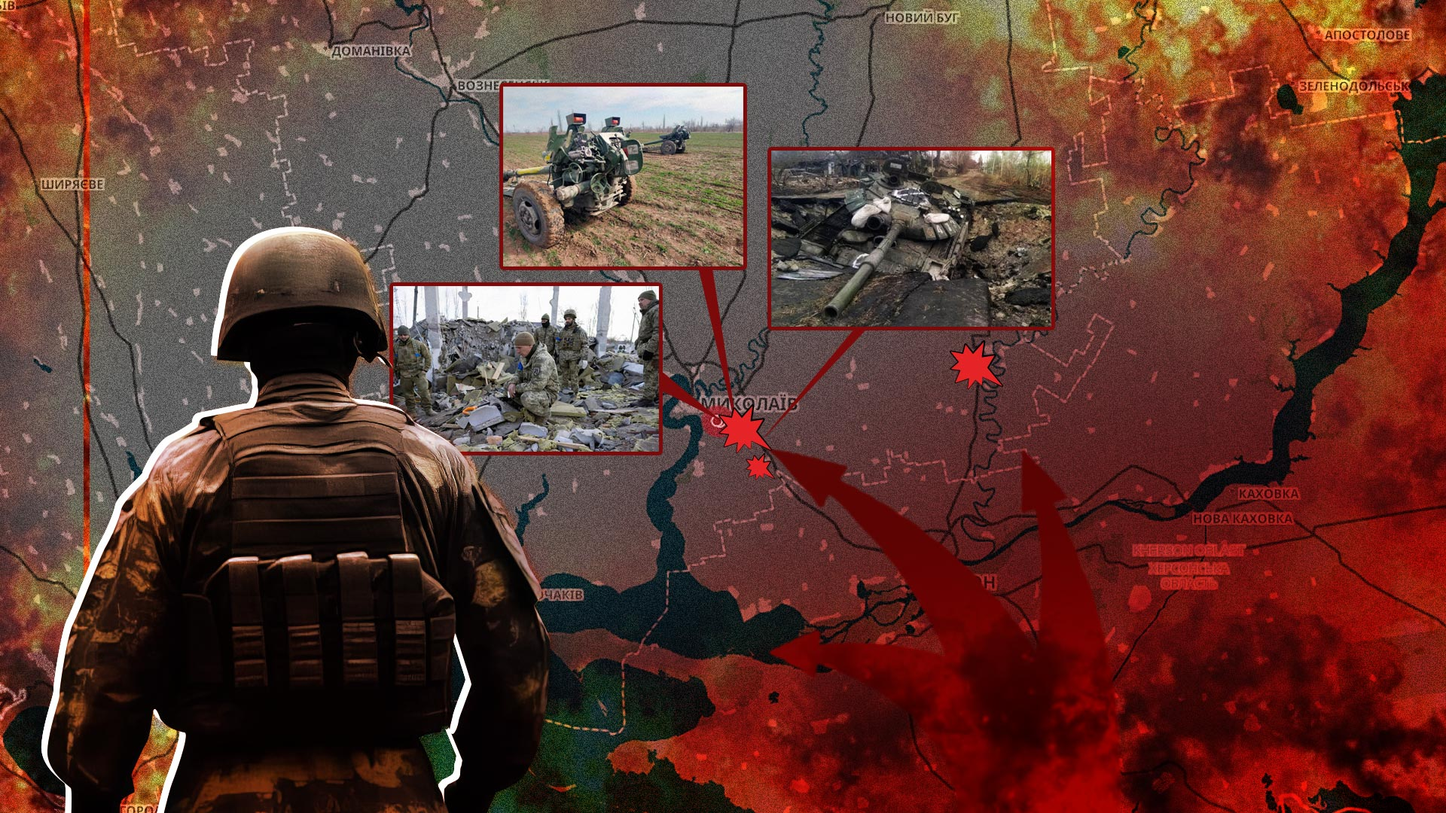
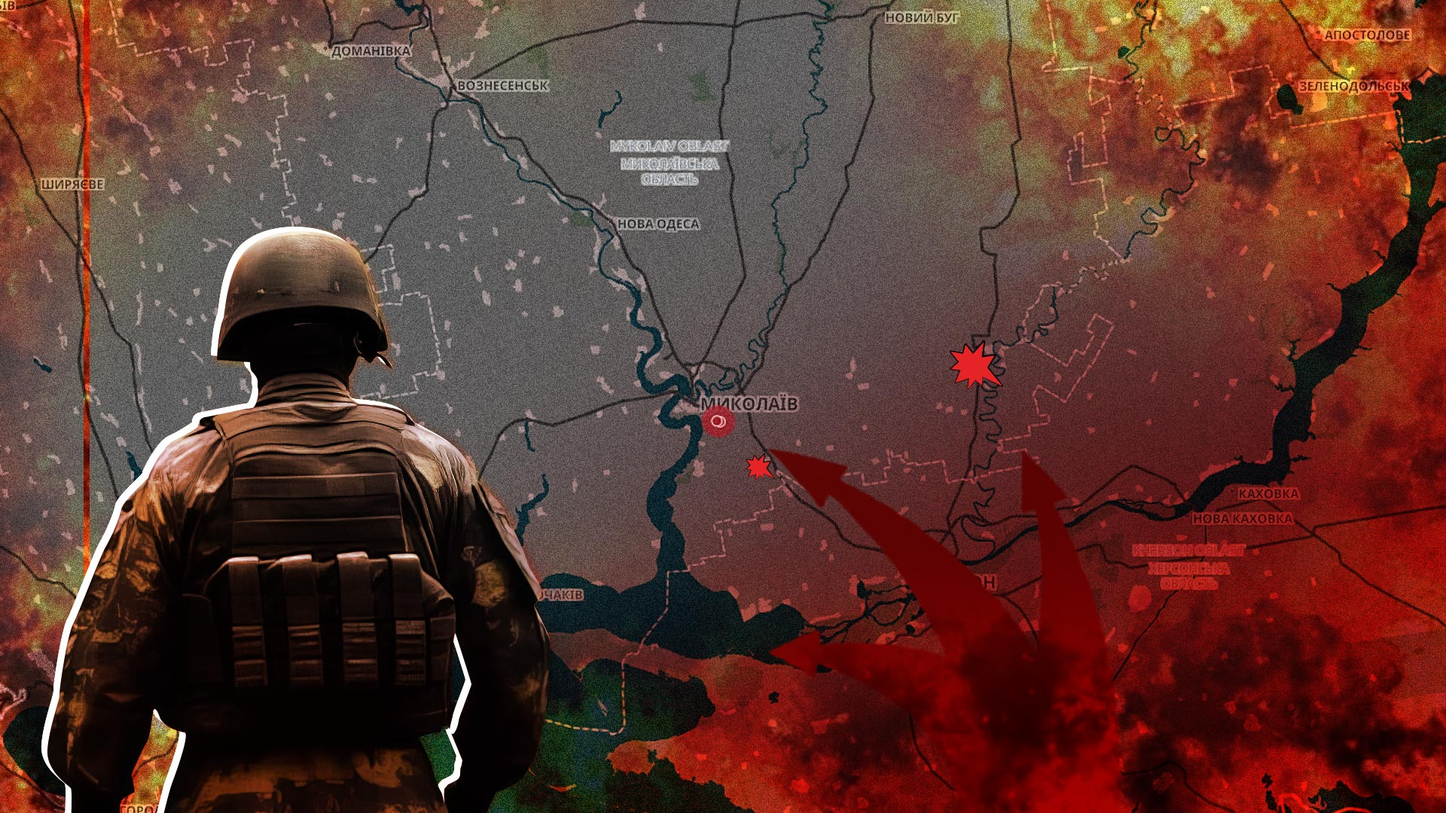
changed margin

Changed region(s): [[0.25, 0.0917, 0.75, 0.5806]]

diff --git a/index.html b/index.html
@@ -5,7 +5,21 @@
     <meta charset="UTF-8">
     <meta http-equiv="X-UA-Compatible" content="IE=edge">
     <meta name="viewport" content="width=device-width, initial-scale=1.0">
-    <title>НЕЗЛАМНИЙ МИКОЛАЇВ</title>
+    <title>НЕЗЛАМНИЙ МИКОЛАЇВ: Як українські воїни обороняли місто та область</title>
+
+    <meta name="title" content="НЕЗЛАМНИЙ МИКОЛАЇВ: Як українські воїни обороняли місто та область">
+    <meta name="description" content="Як росіяни наступали на Миколаївщину, а Збройні сили України обороняли місто та, зрештою, звільняли населені пункти області від ворога.">
+    <meta name="keywords" content="карта, Миколаївщина, ">
+    <meta name="robots" content="index, follow">
+
+    <meta property="og:title" content="НЕЗЛАМНИЙ МИКОЛАЇВ: Як українські воїни обороняли місто та область">
+    <meta property="og:site_name" content="NIKCENTER.ORG">
+    <meta property="og:url" content="https://nikcenter.org/nezlamnyj-mykolayiv/">
+    <meta property="og:description" content="Як росіяни наступали на Миколаївщину, а Збройні сили України обороняли місто та, зрештою, звільняли населені пункти області від ворога.">
+    <meta property="og:type" content="INVESTIAGTION">
+    <meta property="og:image" content="https://nikcenter.org/wp-content/uploads/2023/11/nezlamniy-mykolayv.jpg">
+
+    <link rel="icon" href="/wp-content/uploads/2023/11/nikcenter-logo-c-32.svg" sizes="any">
 
     <script src="libs/popper.min.js"></script>
     <script src="libs/tippy-bundle.umd.js"></script>
@@ -45,12 +59,12 @@
         <div class='scroll__text'>
             <div class="step" data-index="0" style="margin-top:-60vh;"
                 data-polygons='["d1"]' data-points='[""]' data-lines='[""]'
-                data-picture='["img/nezlamniy-mykolayv.jpg"]'
+                data-picture='["img/nezlamniy-mykolayv2.jpg"]'
                 data-coords='[32.0730514, 46.9354839]' data-zoom='[13]'>
                 <div style="background-color: transparent; border:0px;">
 
                     <div id="title-wrapper">
-                        <h1> </h1>
+                        <h1>НЕЗЛАМНИЙ МИКОЛАЇВ</h1>
                         <h3>Як українські воїни<br>обороняли місто та область</h3>
                     </div>
                 </div>
@@ -58,7 +72,7 @@
 
             <div class="step" data-index="0"
             data-polygons='["d1"]' data-points='[""]' data-lines='[""]'
-            data-picture='["img/nezlamniy-mykolayv.jpg"]'
+            data-picture='["img/nezlamniy-mykolayv2.jpg"]'
             data-coords='[32.0730514, 46.9354839]' data-zoom='[3]'>
             <div>
                 <p class="h3">24 лютого близько 5 ранку росіяни завдали перших ракетних ударів по Миколаєву. Відтоді вони почали свій наступ на область, яку їм частково вдалося окупувати. Ворог проводив розвідку боєм, однак підкорити обласний центр так і не зміг.</p>
@@ -1104,4 +1118,13 @@
 
     <script type="text/javascript">
         var lightbox = new SimpleLightbox('a', { /* options */ });
+    </script>
+
+    <script async src="https://www.googletagmanager.com/gtag/js?id=G-S1GRL03ZK1"></script>
+    <script>
+        window.dataLayer = window.dataLayer || [];
+        function gtag(){dataLayer.push(arguments);}
+        gtag('js', new Date());
+
+        gtag('config', 'G-S1GRL03ZK1');
     </script>
